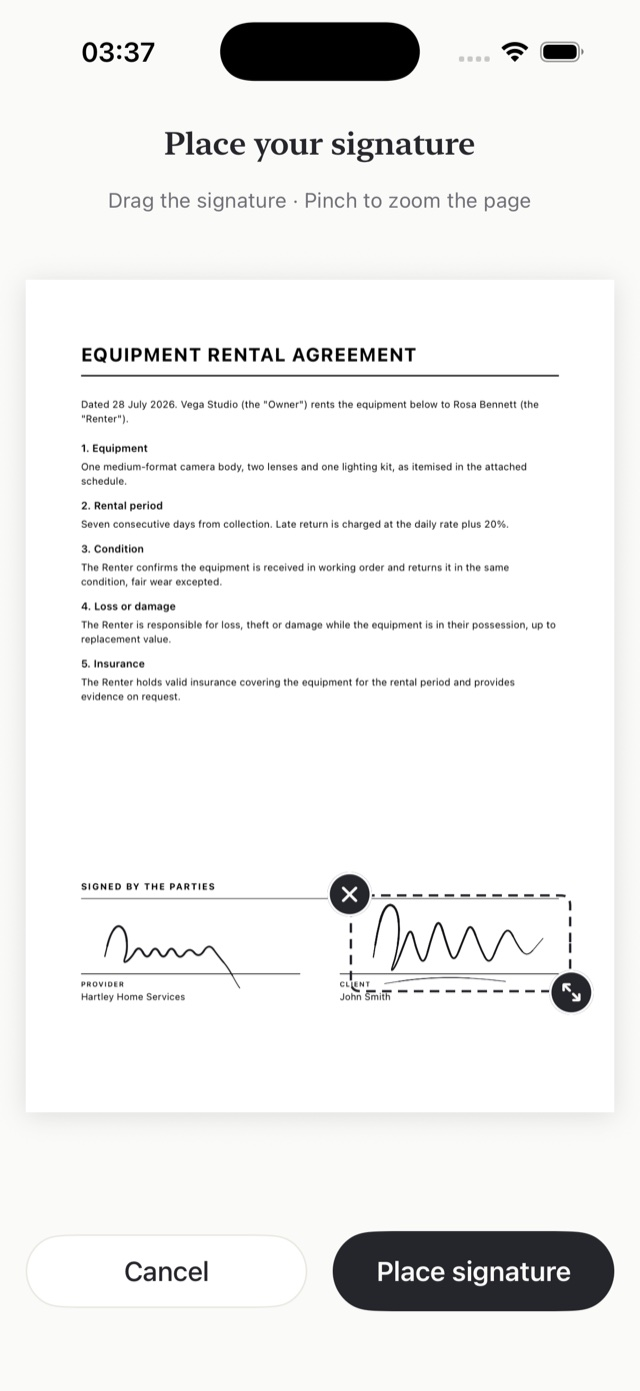
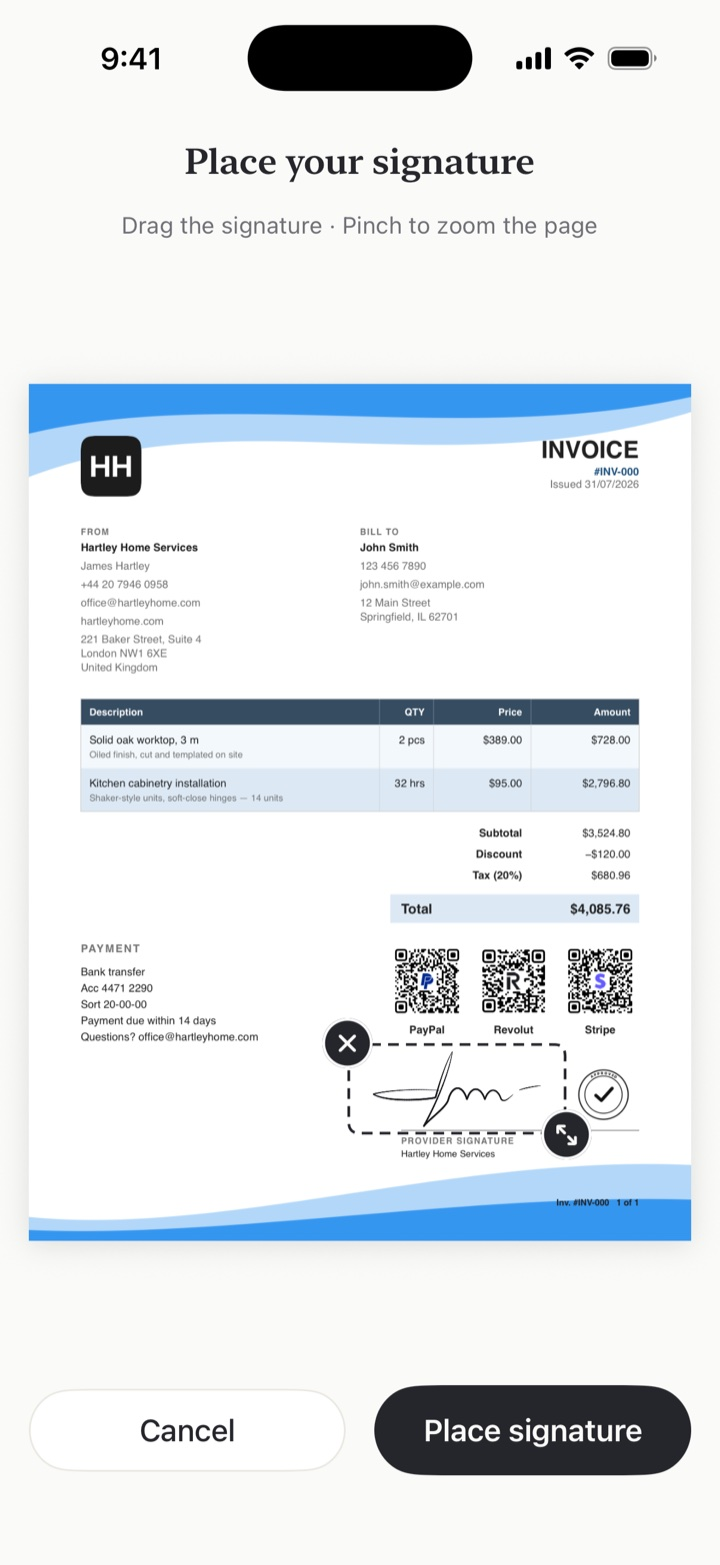
Real iPhone frame with invoice screenshot, brand signature and round approved seal decor, bigger currencies

diff --git a/style.css b/style.css
@@ -85,32 +85,30 @@ h1 {
 .store-badge:hover { transform: translateY(-1px); }
 .store-badge:active { transform: scale(.985); transition-duration: 90ms; }
 
-/* Hero stage: one big phone signing a document, ink flourishes, a rubber
-   stamp, and floating currencies around it */
-.stage { position: relative; max-width: 880px; margin: 46px auto -2px; padding: 0 24px; }
-.device {
-  width: min(302px, 78vw); margin: 0 auto; padding: 10px;
-  background: linear-gradient(160deg, #2B2C33, #17181C); border-radius: 46px;
-  box-shadow: 0 32px 74px rgba(20,21,24,.30);
+/* Hero stage: the real iPhone frame with a live screenshot inside,
+   the brand signature, initials, a round APPROVED seal, and floating
+   currencies in light ink around it */
+.stage { --dw: min(320px, 80vw); position: relative; max-width: 880px; margin: 46px auto -2px; padding: 0 24px; }
+.device { position: relative; width: var(--dw); margin: 0 auto; filter: drop-shadow(0 30px 58px rgba(20,21,24,.28)); }
+.device .frame { display: block; position: relative; z-index: 1; width: 100%; height: auto; pointer-events: none; }
+.device .shot {
+  position: absolute; z-index: 2;
+  left: calc(var(--dw) * .0947); top: calc(var(--dw) * .0893);
+  width: calc(var(--dw) * .8106); height: auto;
+  border-radius: calc(var(--dw) * .042);
 }
-.device img { display: block; width: 100%; height: auto; border-radius: 37px; }
-.dec { position: absolute; color: #D9D9D5; }
-.dec-fl1 { width: 208px; left: 3%; top: 16%; transform: rotate(-8deg); }
-.dec-fl2 { width: 118px; right: 6%; top: 60%; transform: rotate(6deg); }
-.dec-stamp {
-  right: 8%; top: 7%; transform: rotate(10deg);
-  font-size: 14px; font-weight: 800; letter-spacing: .2em; text-transform: uppercase;
-  color: #D4D4D0; border: 3px solid #DBDBD7; border-radius: 10px; padding: 8px 15px;
-}
-.cur { font-weight: 800; line-height: 1; color: #DFDFDB; }
-.cur-usd { font-size: 40px; left: 17%; bottom: 20%; transform: rotate(-11deg); }
-.cur-eur { font-size: 46px; right: 16%; top: 34%; transform: rotate(9deg); }
-.cur-gbp { font-size: 34px; left: 8%; top: 4%; transform: rotate(-7deg); }
-.dec-blot { width: 64px; right: 12%; bottom: 8%; color: #E7E7E4; }
+.dec { position: absolute; }
+.dec-sign { width: 262px; left: 1%; top: 20%; transform: rotate(-8deg); opacity: .17; }
+.dec-init { width: 128px; right: 6%; top: 60%; transform: rotate(6deg); opacity: .15; }
+.dec-seal { width: 148px; right: 8%; top: 4%; transform: rotate(10deg); opacity: .17; }
+.cur { font-weight: 800; line-height: 1; color: #D8D8D4; }
+.cur-usd { font-size: 56px; left: 12%; bottom: 16%; transform: rotate(-11deg); }
+.cur-eur { font-size: 64px; right: 14%; top: 32%; transform: rotate(9deg); }
+.cur-gbp { font-size: 48px; left: 6%; top: 2%; transform: rotate(-7deg); }
 @media (prefers-reduced-motion: no-preference) {
-  .dec-stamp { animation: decbob 7s var(--ease-in-out) infinite; }
-  .dec-fl1 { animation: decbob 8.6s var(--ease-in-out) infinite; animation-delay: -3.2s; }
-  .dec-fl2 { animation: decbob 7.8s var(--ease-in-out) infinite; animation-delay: -5s; }
+  .dec-seal { animation: decbob 7s var(--ease-in-out) infinite; }
+  .dec-sign { animation: decbob 8.6s var(--ease-in-out) infinite; animation-delay: -3.2s; }
+  .dec-init { animation: decbob 7.8s var(--ease-in-out) infinite; animation-delay: -5s; }
   .cur-usd { animation: decbob 6.6s var(--ease-in-out) infinite; animation-delay: -1.8s; }
   .cur-eur { animation: decbob 7.4s var(--ease-in-out) infinite; animation-delay: -4.2s; }
   .cur-gbp { animation: decbob 8s var(--ease-in-out) infinite; animation-delay: -2.7s; }
@@ -121,11 +119,10 @@ h1 {
 }
 @media (max-width: 760px) {
   .stage { margin-top: 36px; }
-  .dec-fl1, .dec-fl2, .cur-eur { display: none; }
-  .dec-stamp { right: 2%; top: 1%; font-size: 11px; padding: 6px 10px; border-width: 2.5px; }
-  .cur-usd { left: 5%; bottom: 6%; font-size: 30px; }
-  .cur-gbp { left: 4%; top: 2%; font-size: 26px; }
-  .dec-blot { width: 44px; right: 4%; bottom: 3%; }
+  .dec-sign, .dec-init, .cur-eur { display: none; }
+  .dec-seal { width: 84px; right: 1%; top: 0; }
+  .cur-usd { left: 4%; bottom: 5%; font-size: 38px; }
+  .cur-gbp { left: 3%; top: 1%; font-size: 32px; }
 }
 
 /* Closing call to action */

diff --git a/index.html b/index.html
@@ -14,7 +14,7 @@
 <meta property="og:image" content="https://evgeniymityulya.github.io/esign-invoice/og.jpg">
 <meta name="twitter:card" content="summary_large_image">
 <link rel="icon" href="./favicon.png">
-<link rel="stylesheet" href="./style.css?v=11">
+<link rel="stylesheet" href="./style.css?v=12">
 </head>
 <body>
 <div class="bar">
@@ -44,15 +44,15 @@
   </a>
 
   <div class="stage">
-    <svg class="dec dec-fl1" viewBox="0 0 200 70" fill="none" stroke="currentColor" stroke-width="2.6" stroke-linecap="round" stroke-linejoin="round" aria-hidden="true"><path d="M8 52C22 12 40 6 44 26c3 16-14 28-19 16-5-11 16-24 36-19 20 5 18 26 40 22 17-3 24-14 40-11 13 2 20-2 31-8"/><path d="M26 62c34 6 76 4 118-6"/></svg>
-    <svg class="dec dec-fl2" viewBox="0 0 110 46" fill="none" stroke="currentColor" stroke-width="2.4" stroke-linecap="round" stroke-linejoin="round" aria-hidden="true"><path d="M6 32C16 8 28 8 28 20c0 10-11 14-13 6-2-8 14-14 30-9 16 5 24 2 40-6"/></svg>
-    <span class="dec dec-stamp">Approved</span>
+    <img class="dec dec-sign" src="./art/dec-signature.png" alt="" aria-hidden="true">
+    <img class="dec dec-init" src="./art/dec-initials.png" alt="" aria-hidden="true">
+    <img class="dec dec-seal" src="./art/dec-stamp.png" alt="" aria-hidden="true">
     <span class="dec cur cur-usd">$</span>
     <span class="dec cur cur-eur">€</span>
     <span class="dec cur cur-gbp">£</span>
-    <svg class="dec dec-blot" viewBox="0 0 90 60" fill="currentColor" aria-hidden="true"><circle cx="18" cy="38" r="8"/><circle cx="36" cy="26" r="4.5"/><circle cx="50" cy="42" r="3"/></svg>
     <div class="device">
-      <img src="./art/hero-phone.jpg" alt="A document opened in Inko with a signature being placed" width="640" height="1391">
+      <img class="shot" src="./art/hero-phone.jpg" alt="An invoice with payment QR codes opened in Inko, a signature being placed" width="720" height="1565">
+      <img class="frame" src="./art/iphone-frame.svg" alt="" aria-hidden="true" width="1240" height="2415">
     </div>
   </div>
 </section>

diff --git a/privacy/index.html b/privacy/index.html
@@ -6,7 +6,7 @@
 <meta name="apple-itunes-app" content="app-id=6788092513">
 <title>Privacy Policy — Inko</title>
 <link rel="icon" href="../favicon.png">
-<link rel="stylesheet" href="../style.css?v=11">
+<link rel="stylesheet" href="../style.css?v=12">
 </head>
 <body>
 <div class="bar">

diff --git a/support/thanks/index.html b/support/thanks/index.html
@@ -7,7 +7,7 @@
 <title>Message sent — Inko</title>
 <meta name="robots" content="noindex">
 <link rel="icon" href="../../favicon.png">
-<link rel="stylesheet" href="../../style.css?v=11">
+<link rel="stylesheet" href="../../style.css?v=12">
 </head>
 <body class="fill">
 <div class="bar">

diff --git a/terms/index.html b/terms/index.html
@@ -6,7 +6,7 @@
 <meta name="apple-itunes-app" content="app-id=6788092513">
 <title>Terms of Use — Inko</title>
 <link rel="icon" href="../favicon.png">
-<link rel="stylesheet" href="../style.css?v=11">
+<link rel="stylesheet" href="../style.css?v=12">
 </head>
 <body>
 <div class="bar">

diff --git a/support/index.html b/support/index.html
@@ -6,7 +6,7 @@
 <meta name="apple-itunes-app" content="app-id=6788092513">
 <title>Support — Inko</title>
 <link rel="icon" href="../favicon.png">
-<link rel="stylesheet" href="../style.css?v=11">
+<link rel="stylesheet" href="../style.css?v=12">
 </head>
 <body>
 <div class="bar">
